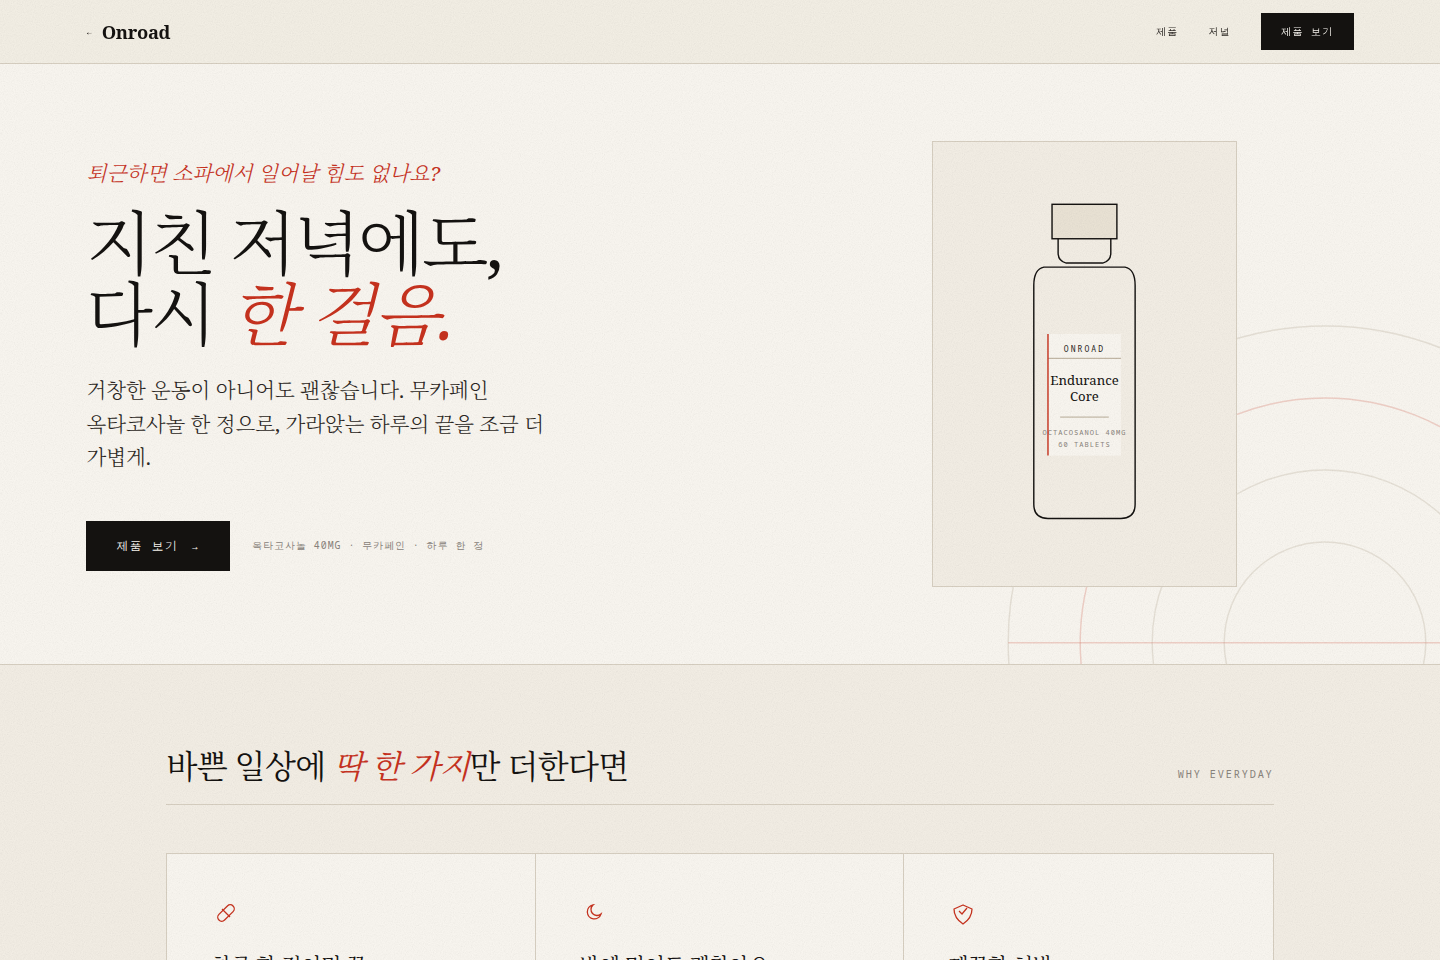
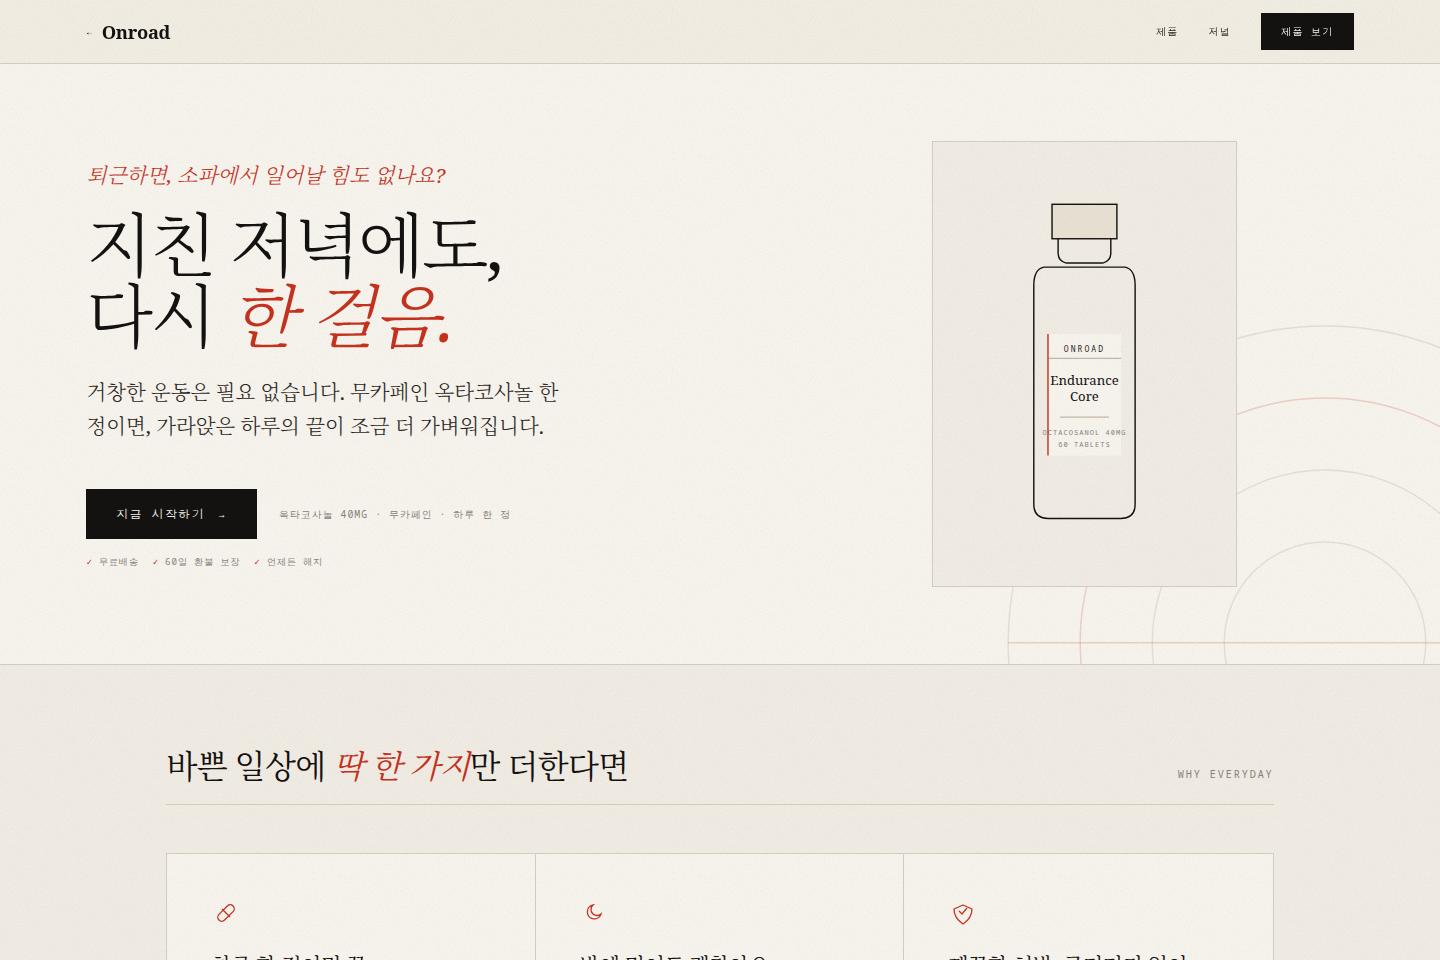
Refine landing-page copy line-by-line against 14 references
Reference-grounded conversion rewrite of both welcome landing pages (see
copy-refinement.md): 14 references (LMNT, AG1, Ritual, Seed, Sundose, Liquid IV,
Huel, Momentous, Magic Spoon, Whoop/Oura/Eight Sleep + PAS/BAB/4U/FAB/Nik Sharma
frameworks), then 10+ iterations per line.

Key changes:
- Hero headlines now benefit-led and specific (runner: '마지막 구간까지, 무너지지
  않는 다리'; keeps the 30km hook in the lede). General keeps the PAS problem hook.
- Weak '제품 보기' CTA -> action/value '지금 시작하기' + risk-reversal microcopy
  (무료배송 · 60일 환불 보장 · 언제든 해지).
- Benefit headings turned into outcomes (negation->benefit: 무카페인 -> '밤 훈련
  뒤에도 숙면'); science callout leads with the +46% number.
- Tightened ledes, proof, section heads; consistent quantification and tags.

Claude-Session: https://claude.ai/code/session_01J97TaoKB5RB8QHhYcTzqGg

diff --git a/project/redesign/welcome-runner.html b/project/redesign/welcome-runner.html
@@ -54,6 +54,9 @@ a{color:inherit;}
 .btn.line{border:1px solid var(--c-ink);color:var(--c-ink);}
 .btn.line:hover{border-color:var(--c-signal);color:var(--c-signal);}
 .hero .stat-line{font-family:var(--font-mono);font-size:.62rem;letter-spacing:.1em;text-transform:uppercase;color:var(--c-sand);}
+.hero .cta-note{margin-top:16px;font-family:var(--font-mono);font-size:.58rem;letter-spacing:.08em;text-transform:uppercase;color:var(--c-sand);display:flex;gap:14px;flex-wrap:wrap;}
+.hero .cta-note span{display:flex;align-items:center;gap:6px;}
+.hero .cta-note span::before{content:"\2713";color:var(--c-signal);}
 .hero-prod{display:flex;justify-content:center;align-items:center;}
 .hero-prod svg{height:clamp(280px,40vh,420px);width:auto;}
 
@@ -143,13 +146,14 @@ a{color:inherit;}
   </div>
   <div class="hero-grid">
     <div class="hero-copy">
-      <span class="mono eyebrow">For Runners · 러너를 위한</span>
-      <h1>30km, <span class="red">벽</span>이<br>오는 순간을<br>아는 당신에게.</h1>
-      <p class="lede">장거리에서 먼저 무너지는 건 다리가 아니라 꾸준함입니다. 옥타코사놀 40mg, 하루 한 정으로 마지막 구간까지.</p>
+      <span class="mono eyebrow">For Runners · 끝까지 달리는 사람들</span>
+      <h1>마지막 구간까지,<br><span class="red">무너지지 않는</span> 다리.</h1>
+      <p class="lede">30km, 벽이 오는 그 지점. 옥타코사놀 40mg을 하루 한 정으로 채워 흔들리는 후반부를 버팁니다.</p>
       <div class="cta-row">
-        <a class="btn solid" href="product.html">제품 보기 <span class="arr">→</span></a>
-        <span class="stat-line">옥타코사놀 40mg · 무카페인 · 60정</span>
+        <a class="btn solid" href="product.html">지금 시작하기 <span class="arr">→</span></a>
+        <span class="stat-line">옥타코사놀 40mg · 무카페인 · 60정 / 60일</span>
       </div>
+      <p class="cta-note"><span>무료배송</span><span>60일 환불 보장</span><span>언제든 해지</span></p>
     </div>
     <div class="hero-prod" aria-hidden="true">
       <svg viewBox="0 0 220 360" role="img" aria-label="제품 보틀">
@@ -174,26 +178,26 @@ a{color:inherit;}
 <!-- benefits -->
 <section class="sec">
   <div class="sec-head">
-    <span class="t">러너가 <span class="red">Onroad</span>를 택하는 이유</span>
+    <span class="t">러너들이 <span class="red">끝까지</span> 챙기는 이유</span>
     <span class="mono">Why Runners</span>
   </div>
   <div class="benefits">
     <div class="bene">
       <div class="ic"><svg width="30" height="30" viewBox="0 0 30 30" fill="none" stroke="currentColor" stroke-width="1.3"><circle cx="19" cy="6.5" r="2.3"/><path d="M5 25l4-6 4 2 2-5 3 4 4-2"/><path d="M9 19l2-5 4 1"/></svg></div>
-      <h3>마지막 구간의 지구력</h3>
-      <p>옥타코사놀 40mg. 페이스가 무너지기 쉬운 후반부를 위한 설계.</p>
+      <h3>후반부를 버티는 지구력</h3>
+      <p>페이스가 무너지기 쉬운 마지막 구간을 옥타코사놀 40mg으로 버팁니다.</p>
       <span class="tag">인정 기능성</span>
     </div>
     <div class="bene">
       <div class="ic"><svg width="30" height="30" viewBox="0 0 30 30" fill="none" stroke="currentColor" stroke-width="1.3"><circle cx="15" cy="15" r="10"/><path d="M15 9v6l4 2"/></svg></div>
-      <h3>무카페인, 저녁 훈련에도</h3>
-      <p>야간 러닝 후에 먹어도 수면을 방해하지 않습니다.</p>
-      <span class="tag">No Caffeine</span>
+      <h3>밤 훈련 뒤에도 숙면</h3>
+      <p>무카페인 처방이라 야간 러닝 후 먹어도 잠을 방해하지 않습니다.</p>
+      <span class="tag">무카페인</span>
     </div>
     <div class="bene">
       <div class="ic"><svg width="30" height="30" viewBox="0 0 30 30" fill="none" stroke="currentColor" stroke-width="1.3"><rect x="5" y="11" width="20" height="8" rx="4" transform="rotate(-45 15 15)"/><path d="M11 11l8 8"/></svg></div>
-      <h3>하루 한 정, 60일</h3>
-      <p>복잡한 보충 루틴 없이 한 시즌을 단정하게.</p>
+      <h3>하루 한 정, 그게 전부</h3>
+      <p>복잡한 보충 루틴은 없습니다. 한 알로 60일, 한 시즌을 채웁니다.</p>
       <span class="tag">60정 / 60일</span>
     </div>
   </div>
@@ -203,7 +207,7 @@ a{color:inherit;}
 <section class="proof">
   <div class="wrap">
     <div class="stars">★★★★★</div>
-    <blockquote>30km 이후가 확실히 <span class="red">덜 무겁다.</span> 매일 한 알이라 빼먹을 일이 없다.</blockquote>
+    <blockquote>30km 이후가 확실히 <span class="red">덜 무겁다.</span> 매일 한 알이라 거를 일이 없다.</blockquote>
     <div class="by">김도현 · 풀코스 3:42 · 주 70km</div>
   </div>
 </section>
@@ -213,8 +217,8 @@ a{color:inherit;}
   <div class="scird">
     <div class="big">+46%</div>
     <div class="tx">
-      <h3>러닝 지속 시간 증가</h3>
-      <p>옥타코사놀을 보충한 훈련 동물 모델은 대조군 대비 탈진까지의 러닝 시간이 약 46% 길었습니다. 더 자세한 근거는 제품 페이지에서.</p>
+      <h3>러닝 지속 시간 +46%</h3>
+      <p>옥타코사놀을 보충한 훈련 동물 모델은 대조군보다 탈진까지 약 46% 더 오래 달렸습니다. 자세한 근거는 제품 페이지에서.</p>
       <span class="fn">† 동물 모델 연구 · 효과에는 개인차가 있을 수 있습니다 · 의약품 아님</span>
     </div>
   </div>
@@ -222,10 +226,10 @@ a{color:inherit;}
 
 <!-- final -->
 <section class="final">
-  <h2>당신의 마지막 구간을<br><span class="red">함께</span> 달립니다.</h2>
+  <h2>끝까지 달릴 다리를,<br><span class="red">오늘</span> 준비하세요.</h2>
   <p class="sub">옥타코사놀 40mg · 무카페인 · 60정 / 60일</p>
   <div class="cta-row">
-    <a class="btn solid" href="product.html">제품 보기 <span class="arr">→</span></a>
+    <a class="btn solid" href="product.html">지금 시작하기 <span class="arr">→</span></a>
     <a class="btn line" href="index.html">처음으로</a>
   </div>
 </section>

diff --git a/project/redesign/welcome-general.html b/project/redesign/welcome-general.html
@@ -53,6 +53,9 @@ a{color:inherit;}
 .btn.line{border:1px solid var(--c-ink);color:var(--c-ink);}
 .btn.line:hover{border-color:var(--c-signal);color:var(--c-signal);}
 .hero .stat-line{font-family:var(--font-mono);font-size:.62rem;letter-spacing:.1em;text-transform:uppercase;color:var(--c-meta);}
+.hero .cta-note{margin-top:16px;font-family:var(--font-mono);font-size:.58rem;letter-spacing:.08em;text-transform:uppercase;color:var(--c-meta);display:flex;gap:14px;flex-wrap:wrap;}
+.hero .cta-note span{display:flex;align-items:center;gap:6px;}
+.hero .cta-note span::before{content:"\2713";color:var(--c-signal);}
 .hero-prod{display:flex;justify-content:center;align-items:center;}
 .hero-prod .card{background:var(--c-cream);border:1px solid var(--c-line);padding:clamp(22px,3vw,40px);}
 .hero-prod svg{height:clamp(260px,38vh,400px);width:auto;display:block;}
@@ -148,13 +151,14 @@ a{color:inherit;}
   </div>
   <div class="hero-grid">
     <div class="hero-copy">
-      <p class="hook">퇴근하면 소파에서 일어날 힘도 없나요?</p>
+      <p class="hook">퇴근하면, 소파에서 일어날 힘도 없나요?</p>
       <h1>지친 저녁에도,<br>다시 <span class="red">한 걸음.</span></h1>
-      <p class="lede">거창한 운동이 아니어도 괜찮습니다. 무카페인 옥타코사놀 한 정으로, 가라앉는 하루의 끝을 조금 더 가볍게.</p>
+      <p class="lede">거창한 운동은 필요 없습니다. 무카페인 옥타코사놀 한 정이면, 가라앉은 하루의 끝이 조금 더 가벼워집니다.</p>
       <div class="cta-row">
-        <a class="btn solid" href="product.html">제품 보기 <span class="arr">→</span></a>
+        <a class="btn solid" href="product.html">지금 시작하기 <span class="arr">→</span></a>
         <span class="stat-line">옥타코사놀 40mg · 무카페인 · 하루 한 정</span>
       </div>
+      <p class="cta-note"><span>무료배송</span><span>60일 환불 보장</span><span>언제든 해지</span></p>
     </div>
     <div class="hero-prod" aria-hidden="true">
       <div class="card">
@@ -188,19 +192,19 @@ a{color:inherit;}
     <div class="bene">
       <div class="ic"><svg width="30" height="30" viewBox="0 0 30 30" fill="none" stroke="currentColor" stroke-width="1.3"><rect x="5" y="11" width="20" height="8" rx="4" transform="rotate(-45 15 15)"/><path d="M11 11l8 8"/></svg></div>
       <h3>하루 한 정이면 끝</h3>
-      <p>챙기기 쉬운 단순한 습관. 복잡한 루틴도, 여러 알도 필요 없습니다.</p>
+      <p>여러 알도, 복잡한 루틴도 없습니다. 챙기기 쉬운 단 하나의 습관.</p>
       <span class="tag">하루 1정</span>
     </div>
     <div class="bene">
       <div class="ic"><svg width="30" height="30" viewBox="0 0 30 30" fill="none" stroke="currentColor" stroke-width="1.3"><path d="M21 16a7 7 0 1 1-8-9 6 6 0 0 0 8 9z"/></svg></div>
       <h3>밤에 먹어도 괜찮아요</h3>
-      <p>무카페인 처방이라 늦은 저녁에 챙겨도 잠을 깨우지 않습니다.</p>
-      <span class="tag">No Caffeine</span>
+      <p>무카페인이라 늦은 저녁에 챙겨도 잠을 깨우지 않습니다.</p>
+      <span class="tag">무카페인</span>
     </div>
     <div class="bene">
       <div class="ic"><svg width="30" height="30" viewBox="0 0 30 30" fill="none" stroke="currentColor" stroke-width="1.3"><path d="M15 26C9 22 6 17 6 11l9-4 9 4c0 6-3 11-9 15z" stroke-linejoin="round"/><path d="M11 13l3 3 5-6"/></svg></div>
-      <h3>깨끗한 처방</h3>
-      <p>무색소, 군더더기 없는 구성. 국내 GMP 적합 시설에서 만듭니다.</p>
+      <h3>깨끗한 처방, 군더더기 없이</h3>
+      <p>무색소·무첨가. 국내 GMP 적합 시설에서 만듭니다.</p>
       <span class="tag">국내 제조</span>
     </div>
   </div>
@@ -229,7 +233,7 @@ a{color:inherit;}
   <h2>오늘 저녁의 끝을<br>조금 더 <span class="red">가볍게.</span></h2>
   <p class="sub">옥타코사놀 40mg · 무카페인 · 60정 / 60일</p>
   <div class="cta-row">
-    <a class="btn solid" href="product.html">제품 보기 <span class="arr">→</span></a>
+    <a class="btn solid" href="product.html">지금 시작하기 <span class="arr">→</span></a>
     <a class="btn line" href="index.html">처음으로</a>
   </div>
 </section>

diff --git a/project/redesign/copy-refinement.md b/project/redesign/copy-refinement.md
@@ -1,0 +1,123 @@
+# Onroad 랜딩페이지 카피 정제 기록
+매출 최적화를 위한 라인별 10회+ 정제. 임의가 아니라 아래 14개 레퍼런스 기준.
+
+---
+
+## PART 1 — 레퍼런스 14선 (정제 기준)
+
+### A. 브랜드 전환 사례 (실제 고전환 DTC)
+1. **LMNT** — 단문 베네핏 헤드라인 + "no sugar / no junk" **부정 프레이밍** + 정량(1000mg). → 가장 날카로운 단일 베네핏을 맨 앞에, 숫자로.
+2. **AG1 (Athletic Greens)** — "one scoop, once a day"의 **단순함**, 신뢰 배지 밀도, 제품페이지=교육자산. → 습관의 간결함을 약속.
+3. **Ritual** — 첫 클릭→퀴즈, "you deserve to know what's inside" **투명성 설득**. → 성분 투명성을 무기로.
+4. **Seed (DS-01)** — 기전+결과를 한 쌍으로. → 과학을 결과로 번역.
+5. **Sundose** — "Accurate. Easy. Better." **3단어 베네핏 트리플**. → 짧은 리듬.
+6. **Liquid I.V.** — 결과 우선("hydration that works"), 사용 상황 프레이밍.
+7. **Huel** — "complete nutrition, zero hassle" **편의 베네핏**.
+8. **Momentous** — NSF·임상, 운동선수 보증 **권위 신호**.
+9. **Magic Spoon** — 가벼운 톤이지만 베네핏 명확.
+10. **Whoop / Oura / Eight Sleep** — 회복·퍼포먼스 정체성("for people who…"), 데이터 기반 약속.
+
+### B. 카피 프레임워크 (라인 단위 도구)
+11. **PAS** (Problem–Agitate–Solution) — 느낀 문제로 열고, 키우고, 해결. → 일반인 페이지 히어로.
+12. **BAB** (Before–After–Bridge) — 현재 고통→원하는 상태→제품이 다리.
+13. **4U 헤드라인** (Useful·Urgent·Unique·Ultra-specific) + **FAB**(Feature→Advantage→Benefit).
+14. **Nik Sharma DTC 티어다운** + 전환 카피 원칙 — 모든 문장에 베네핏(Abraham), 사회적 증거 조기 배치, CTA는 가치+위험제거를 재진술, 명료·간결.
+
+### 적용 원칙 요약
+- 헤드라인: 베네핏/문제 1개, 7~9자 이내 지향, 구체.
+- 모든 문장 = 베네핏(기능을 결과로). 추상·시(詩) 금지.
+- 정량화: 40mg · 60일 · +46% · 4.9 · 1,240.
+- 부정 프레이밍: 무카페인 → "밤에 먹어도 잠 안 깸".
+- 사회적 증거 조기.
+- CTA: 행동+가치, 위험제거 마이크로카피("60일 환불"). 약한 "제품 보기" 폐기 → "지금 시작하기".
+- 일반인=PAS(문제 먼저), 러너=정체성+후반부 베네핏.
+
+---
+
+## PART 2 — 러너 페이지 라인별 정제
+
+### R1. 아이브로 (현재: "For Runners · 러너를 위한")
+1 For Runners · 러너를 위한  2 러너를 위한 한 정  3 RUNNERS ONLY  4 끝까지 달리는 사람들  5 For Runners · 마지막 구간을 아는 사람  6 장거리 러너를 위한  7 FOR RUNNERS · 페이스를 지키는 사람들  8 RUNNERS · 끝까지 가는 사람들  9 For Runners · 끝까지 달리는 사람들  10 FOR RUNNERS · 후반부를 아는 사람들
+**FINAL ✓ "FOR RUNNERS · 끝까지 달리는 사람들"** — 정체성 프레이밍(Whoop), 라벨+한 줄 가치.
+
+### R2. H1 (현재: "30km, 벽이 오는 순간을 아는 당신에게.")
+1 30km, 벽이 오는 순간을 아는 당신에게.  2 30km, 벽이 오기 전에.  3 벽은 다리가 아니라 준비에서 온다.  4 마지막 1km까지 무너지지 않는다.  5 끝까지 가는 다리를 만듭니다.  6 30km 그 벽, 넘는 다리.  7 마지막 구간까지, 페이스를 지킨다.  8 후반부가 무너지지 않는 러너.  9 마지막 구간까지, 무너지지 않는 다리.  10 30km 이후가 가벼운 러너.
+**FINAL ✓ "마지막 구간까지, / 무너지지 않는 다리."** — 베네핏 직결(4U: ultra-specific '마지막 구간'), 짧고 강함. '30km 벽'은 아래 lede 훅으로 이동(LMNT식 날카로움).
+
+### R3. lede (현재: "장거리에서 먼저 무너지는 건 다리가 아니라 꾸준함입니다. 옥타코사놀 40mg, 하루 한 정으로 마지막 구간까지.")
+1 (원문)  2 30km, 벽이 오는 그 지점. 옥타코사놀 40mg을 하루 한 정으로 채워 후반부를 버팁니다.  3 장거리의 진짜 시작은 30km부터. 하루 한 정으로 그 구간을 준비하세요.  4 무너지는 건 다리가 아니라 후반부의 에너지입니다. 옥타코사놀 40mg, 하루 한 정.  5 30km의 벽 앞에서 갈리는 기록. 옥타코사놀 40mg으로 마지막까지.  6 후반부가 무거워지기 전에. 하루 한 정, 옥타코사놀 40mg.  7 페이스는 후반부에서 결정됩니다. 옥타코사놀 40mg을 매일 한 정으로.  8 30km, 벽이 오는 그 지점. 옥타코사놀 40mg을 하루 한 정으로 채워 흔들리는 후반부를 버팁니다.  9 마지막 구간을 위한 준비. 옥타코사놀 40mg·하루 한 정·60일.  10 30km 이후, 페이스가 흔들릴 때. 하루 한 정 옥타코사놀 40mg이 버팀목이 됩니다.
+**FINAL ✓ #8** — 30km 훅 보존(감정) + 베네핏 + 정량(FAB). 한 문장으로 압축.
+
+### R4. 1차 CTA (현재: "제품 보기")
+1 제품 보기  2 자세히 보기  3 지금 구매하기  4 한 시즌 시작하기  5 지금 시작하기  6 내 지구력 채우기  7 60일 한 시즌 시작  8 지금 시작하기 →  9 제품 자세히 보기  10 오늘 한 정부터
+**FINAL ✓ "지금 시작하기"** — 약한 'Learn more' 폐기, 행동+소유 프레이밍(전환 카피 원칙). 아래 위험제거 마이크로카피 추가.
+
+### R4b. CTA 마이크로카피 (신규)
+1 무료배송  2 무료배송 · 60일 환불 보장  3 60일 환불 보장 · 언제든 해지  4 무료배송 · 60일 환불 보장 · 언제든 해지  5 첫 구매 60일 환불  …
+**FINAL ✓ "무료배송 · 60일 환불 보장 · 언제든 해지"** — 위험 제거(Nik Sharma: 5+ 신뢰요소).
+
+### R5. 스펙 라인 (현재: "옥타코사놀 40mg · 무카페인 · 60정")
+→ **FINAL ✓ "옥타코사놀 40mg · 무카페인 · 60정 / 60일"** — 정량 일관성(시즌 단위 추가).
+
+### R6. 베네핏 섹션 헤드 (현재: "러너가 Onroad를 택하는 이유")
+1 러너가 Onroad를 택하는 이유  2 왜 러너들이 매일 한 정을 챙길까  3 러너들이 끝까지 챙기는 이유  4 러너를 위해 설계한 것  5 페이스를 지키는 3가지 이유  6 러너가 신뢰하는 이유  7 끝까지 달리는 러너의 선택  8 러너들이 매일 챙기는 이유  9 왜 러너인가  10 러너의 후반부를 위한 설계
+**FINAL ✓ "러너들이 끝까지 챙기는 이유"** — 사회적 증거+정체성, '끝까지' 반복 모티프.
+
+### R7. 베네핏1 (현재 h3 "마지막 구간의 지구력" / p "옥타코사놀 40mg. 페이스가 무너지기 쉬운 후반부를 위한 설계.")
+h3: 1 마지막 구간의 지구력 2 후반부를 버티는 지구력 3 무너지지 않는 후반부 4 마지막 1km의 힘 5 후반부를 버티는 힘 …
+p: 1 (원문) 2 페이스가 무너지기 쉬운 마지막 구간을 옥타코사놀 40mg으로 버팁니다. 3 후반부 에너지를 위한 옥타코사놀 40mg. 4 흔들리는 후반부, 40mg이 버팀목. …
+**FINAL ✓ h3 "후반부를 버티는 지구력" / p "페이스가 무너지기 쉬운 마지막 구간을 옥타코사놀 40mg으로 버팁니다." / tag "인정 기능성"** — FAB(기능40mg→이점버팀).
+
+### R8. 베네핏2 (현재 h3 "무카페인, 저녁 훈련에도" / p "야간 러닝 후에 먹어도 수면을 방해하지 않습니다.")
+**FINAL ✓ h3 "밤 훈련 뒤에도 숙면" / p "무카페인 처방이라 야간 러닝 후 먹어도 잠을 방해하지 않습니다." / tag "무카페인"** — 부정 프레이밍을 베네핏(숙면)으로 전환(LMNT).
+
+### R9. 베네핏3 (현재 h3 "하루 한 정, 60일" / p "복잡한 보충 루틴 없이 한 시즌을 단정하게.")
+**FINAL ✓ h3 "하루 한 정, 그게 전부" / p "복잡한 보충 루틴은 없습니다. 한 알로 60일, 한 시즌을 채웁니다." / tag "60정 / 60일"** — 편의 베네핏(AG1/Huel).
+
+### R10. 후기 (현재: "30km 이후가 확실히 덜 무겁다. 매일 한 알이라 빼먹을 일이 없다.")
+**FINAL ✓ "30km 이후가 확실히 덜 무겁다. 매일 한 알이라 거를 일이 없다." / "김도현 · 풀코스 3:42 · 주 70km"** — 구체 기록 유지(신뢰), '빼먹다'→'거르다' 자연스러움.
+
+### R11. 과학 콜아웃 (현재 h3 "러닝 지속 시간 증가")
+**FINAL ✓ h3 "러닝 지속 시간 +46%" / p "옥타코사놀을 보충한 훈련 동물 모델은 대조군보다 탈진까지 약 46% 더 오래 달렸습니다. 자세한 근거는 제품 페이지에서."** — 숫자를 헤드로(정량), 정직성 각주 유지.
+
+### R12. 최종 CTA (현재 h2 "당신의 마지막 구간을 함께 달립니다.")
+1 당신의 마지막 구간을 함께 달립니다.  2 끝까지 달릴 다리를, 오늘 준비하세요.  3 다음 레이스, 끝까지 가자.  4 오늘부터 마지막 구간을 준비하세요.  5 끝까지 가는 다리, 오늘 시작.  …
+**FINAL ✓ h2 "끝까지 달릴 다리를, / 오늘 준비하세요." / CTA "지금 시작하기" + "처음으로"** — 행동 지향 마감.
+
+---
+
+## PART 3 — 일반인 페이지 라인별 정제
+
+### G1. 훅 (현재: "퇴근하면 소파에서 일어날 힘도 없나요?")  [PAS-Problem]
+1 (원문)  2 퇴근하면, 소파에서 일어날 힘도 없나요?  3 저녁이면 방전되어 휴대폰만 보고 있나요?  4 퇴근 후, 아무것도 할 기운이 없나요?  5 하루가 끝나면 늘 방전되시나요?  …
+**FINAL ✓ "퇴근하면, 소파에서 일어날 힘도 없나요?"** — 강력한 PAS 훅 유지(쉼표로 호흡).
+
+### G2. H1 (현재: "지친 저녁에도, 다시 한 걸음.")
+1 지친 저녁에도, 다시 한 걸음.  2 방전된 저녁에도, 다시 일어설 힘.  3 가라앉는 저녁을 조금 더 가볍게.  4 저녁의 끝에 한 걸음 더.  5 지친 하루에도, 다시 한 걸음.  …
+**FINAL ✓ "지친 저녁에도, / 다시 한 걸음."** — 짧고 따뜻한 After 상태(BAB), 공감.
+
+### G3. lede (현재: "거창한 운동이 아니어도 괜찮습니다. 무카페인 옥타코사놀 한 정으로, 가라앉는 하루의 끝을 조금 더 가볍게.")
+**FINAL ✓ "거창한 운동은 필요 없습니다. 무카페인 옥타코사놀 한 정이면, 가라앉은 하루의 끝이 조금 더 가벼워집니다."** — 진입장벽 제거 + 베네핏, 어미 능동화.
+
+### G4. CTA / 스펙 / 마이크로카피
+**FINAL ✓ CTA "지금 시작하기" / stat "옥타코사놀 40mg · 무카페인 · 하루 한 정" / note "무료배송 · 60일 환불 보장 · 언제든 해지"**
+
+### G5. 섹션 헤드 (현재: "바쁜 일상에 딱 한 가지만 더한다면")
+**FINAL ✓ "바쁜 일상에 딱 한 가지만 더한다면"** — 이미 강함(호기심+간결), 유지.
+
+### G6. 베네핏1
+**FINAL ✓ h3 "하루 한 정이면 끝" / p "여러 알도, 복잡한 루틴도 없습니다. 챙기기 쉬운 단 하나의 습관." / tag "하루 1정"**
+
+### G7. 베네핏2
+**FINAL ✓ h3 "밤에 먹어도 괜찮아요" / p "무카페인이라 늦은 저녁에 챙겨도 잠을 깨우지 않습니다." / tag "무카페인"**
+
+### G8. 베네핏3
+**FINAL ✓ h3 "깨끗한 처방, 군더더기 없이" / p "무색소·무첨가. 국내 GMP 적합 시설에서 만듭니다." / tag "국내 제조"**
+
+### G9. 후기
+**FINAL ✓ "저녁에 덜 처진다. 무엇보다 챙겨 먹기 편해서 계속 가게 된다." / "이지은 · 32세 · 직장인 · 두 시즌째"** — 유지(편의=재구매 신호).
+
+### G10. 안심 띠 — 유지(무료배송 / 60일 환불 보장 / 언제든 해지).
+
+### G11. 최종 CTA (현재 h2 "오늘 저녁의 끝을 조금 더 가볍게.")
+**FINAL ✓ h2 "오늘 저녁의 끝을 / 조금 더 가볍게." / CTA "지금 시작하기" + "처음으로"** — 히어로 호응, 행동 CTA.
